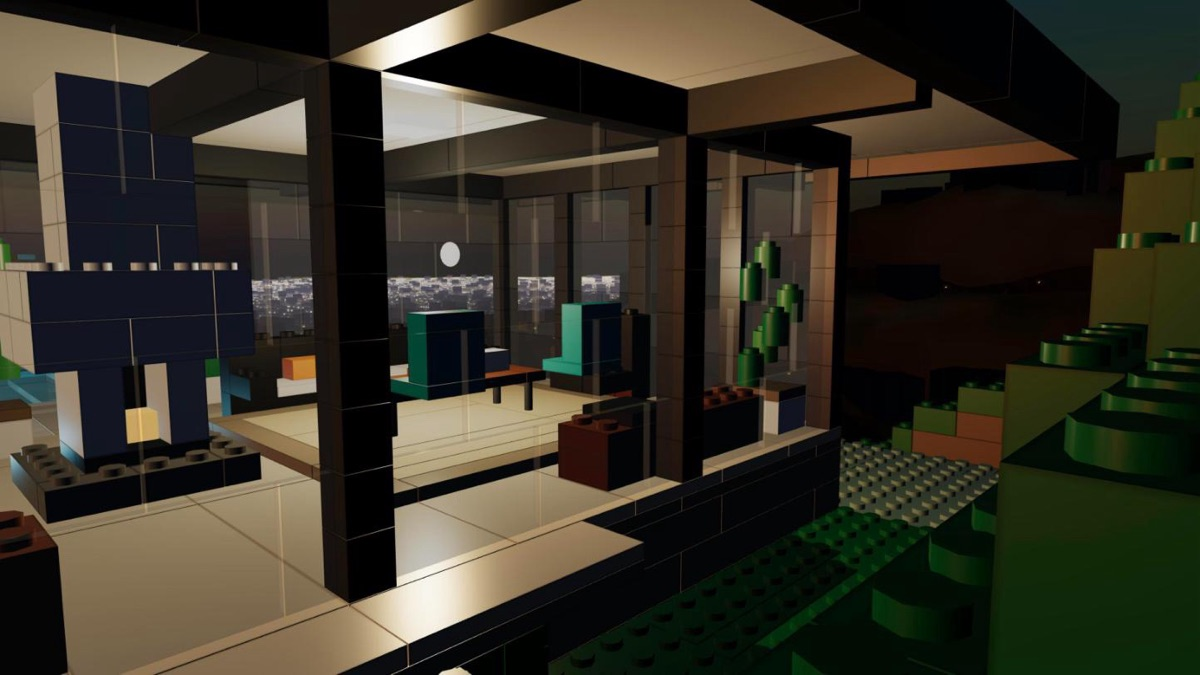
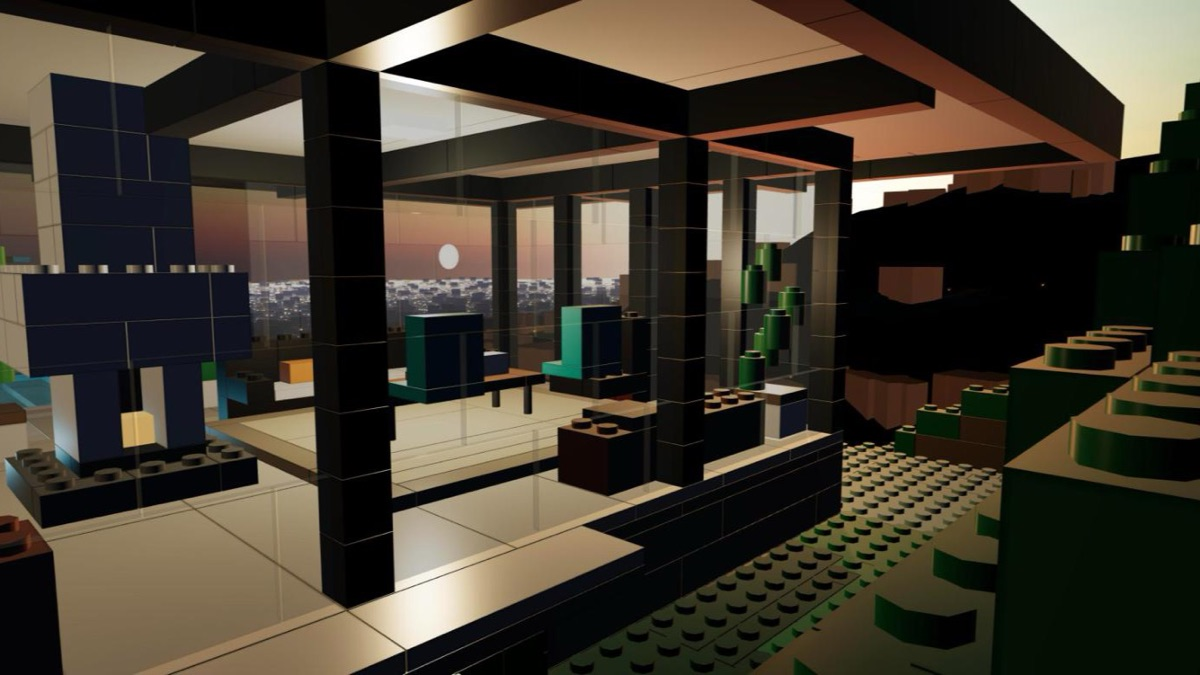
Compass-correct sun for the Stahl House (spec 009)
- NOAA solar position for the house's real lat/lon on the visitor's
  date (?date=YYYY-MM-DD to pin it), mapped through the model's 180°
  orientation; Day = solar noon + 3 h, Dusk = 2.2° above the horizon
- Dusk sun was at ~110° (ESE); now sets at its real bearing, e.g.
  240° on Dec 21 and 297° on Jun 21
- Thumbnail recaptured with the correct winter sunset (pinned date)
- Model, timeline and other presets unchanged

Claude-Session: https://claude.ai/code/session_01K281R8SprXAZ9qdzeZLGd2

diff --git a/src/scene/sun.ts b/src/scene/sun.ts
@@ -1,0 +1,93 @@
+/**
+ * Spec 009: where the sun really is. NOAA solar-position algorithm (accurate to well under a degree for our use),
+ * plus the mapping from real compass bearings into model space. Pure: no Three.js, no DOM.
+ */
+const rad = Math.PI / 180, deg = 180 / Math.PI;
+
+export interface Site {
+  lat: number;
+  lon: number;
+  /** how the model is turned relative to the real world: 180 means model +z = real north, model −x = real east (spec 003) */
+  rotationDeg: number;
+}
+
+/** Equation of time (minutes) and solar declination (degrees) for an instant. */
+function sunParams(date: Date) {
+  const jd = date.getTime() / 86400000 + 2440587.5;
+  const T = (jd - 2451545) / 36525;
+  const L0 = (((280.46646 + T * (36000.76983 + T * 0.0003032)) % 360) + 360) % 360;
+  const M = 357.52911 + T * (35999.05029 - 0.0001537 * T);
+  const e = 0.016708634 - T * (0.000042037 + 0.0000001267 * T);
+  const C =
+    Math.sin(M * rad) * (1.914602 - T * (0.004817 + 0.000014 * T)) +
+    Math.sin(2 * M * rad) * (0.019993 - 0.000101 * T) +
+    Math.sin(3 * M * rad) * 0.000289;
+  const omega = 125.04 - 1934.136 * T;
+  const lambda = L0 + C - 0.00569 - 0.00478 * Math.sin(omega * rad);
+  const eps0 = 23 + (26 + (21.448 - T * (46.815 + T * (0.00059 - T * 0.001813))) / 60) / 60;
+  const eps = eps0 + 0.00256 * Math.cos(omega * rad);
+  const decl = Math.asin(Math.sin(eps * rad) * Math.sin(lambda * rad)) * deg;
+  const y = Math.tan((eps / 2) * rad) ** 2;
+  const eot =
+    4 * deg *
+    (y * Math.sin(2 * L0 * rad) - 2 * e * Math.sin(M * rad) + 4 * e * y * Math.sin(M * rad) * Math.cos(2 * L0 * rad) -
+      0.5 * y * y * Math.sin(4 * L0 * rad) - 1.25 * e * e * Math.sin(2 * M * rad));
+  return { decl, eot };
+}
+
+/** Sun azimuth (degrees clockwise from true north) and geometric elevation (degrees above the horizon). */
+export function solarPosition(date: Date, lat: number, lon: number) {
+  const { decl, eot } = sunParams(date);
+  const minutes = date.getUTCHours() * 60 + date.getUTCMinutes() + date.getUTCSeconds() / 60 + date.getUTCMilliseconds() / 60000;
+  const tst = (((minutes + eot + 4 * lon) % 1440) + 1440) % 1440;
+  let ha = tst / 4 - 180;
+  if (ha < -180) ha += 360;
+  const cz = Math.sin(lat * rad) * Math.sin(decl * rad) + Math.cos(lat * rad) * Math.cos(decl * rad) * Math.cos(ha * rad);
+  const zen = Math.acos(Math.max(-1, Math.min(1, cz))) * deg;
+  const ca = (Math.sin(lat * rad) * Math.cos(zen * rad) - Math.sin(decl * rad)) / (Math.cos(lat * rad) * Math.sin(zen * rad));
+  const a = Math.acos(Math.max(-1, Math.min(1, ca))) * deg;
+  const azimuth = ha > 0 ? (a + 180) % 360 : (540 - a) % 360;
+  return { azimuth, elevation: 90 - zen, declination: decl };
+}
+
+/** Solar noon (UTC instant) on a calendar day `YYYY-MM-DD` at longitude `lon`. */
+export function solarNoon(day: string, lon: number): Date {
+  const [y, m, d] = day.split('-').map(Number);
+  const midnight = Date.UTC(y, m - 1, d);
+  let noon = midnight + (720 - 4 * lon) * 60e3;
+  noon = midnight + (720 - 4 * lon - sunParams(new Date(noon)).eot) * 60e3; // refine with that day's equation of time
+  return new Date(noon);
+}
+
+/** Three.js spherical azimuth θ (degrees, direction (x, z) = (sin θ, cos θ)) for a real compass bearing. */
+export const bearingToTheta = (bearing: number, rotationDeg: number) => (((180 - bearing + rotationDeg) % 360) + 360) % 360;
+
+export const DUSK_ELEVATION = 2.2; // degrees: the dusk look of the original preset
+export const DAY_AFTER_NOON_H = 3; // mid-afternoon
+
+/** The sun for a preset on a day: real bearing/elevation, and the θ to give the sky. */
+export function sunFor(day: string, site: Site, kind: 'day' | 'dusk') {
+  const noon = solarNoon(day, site.lon).getTime();
+  let t = noon + DAY_AFTER_NOON_H * 3600e3;
+  if (kind === 'dusk') {
+    // the afternoon moment the sun is DUSK_ELEVATION above the horizon
+    let a = noon, b = noon + 9 * 3600e3;
+    for (let i = 0; i < 50; i++) {
+      const m = (a + b) / 2;
+      if (solarPosition(new Date(m), site.lat, site.lon).elevation > DUSK_ELEVATION) a = m; else b = m;
+    }
+    t = (a + b) / 2;
+  }
+  const p = solarPosition(new Date(t), site.lat, site.lon);
+  return { bearing: p.azimuth, elevation: p.elevation, theta: bearingToTheta(p.azimuth, site.rotationDeg), time: new Date(t) };
+}
+
+/** `?date=YYYY-MM-DD` if valid, otherwise the visitor's local today. */
+export function dateParam(param: string | null, now = new Date()): string {
+  if (param && /^\d{4}-\d{2}-\d{2}$/.test(param)) {
+    const [y, m, d] = param.split('-').map(Number);
+    const dt = new Date(Date.UTC(y, m - 1, d));
+    if (dt.getUTCFullYear() === y && dt.getUTCMonth() === m - 1 && dt.getUTCDate() === d) return param;
+  }
+  return `${now.getFullYear()}-${String(now.getMonth() + 1).padStart(2, '0')}-${String(now.getDate()).padStart(2, '0')}`;
+}

diff --git a/tests/sun.test.ts b/tests/sun.test.ts
@@ -1,0 +1,79 @@
+// Spec: specs/009-compass-correct-sun.md (A1–A4, A6)
+import { describe, expect, it } from 'vitest';
+import { readFileSync } from 'node:fs';
+import { bearingToTheta, dateParam, solarNoon, solarPosition, sunFor } from '../src/scene/sun';
+import { SITE } from '../src/model/layout';
+import { parseNeighborhood } from '../src/scene/neighborhoodData';
+import { buildStahlHouse } from '../src/model/stahlHouse';
+import { sequence } from '../src/build/sequencer';
+import { houseFingerprint, modelFingerprint } from './fingerprint';
+
+const rad = Math.PI / 180;
+const expectedSunset = (declDeg: number, latDeg: number) => 360 - Math.acos(Math.sin(declDeg * rad) / Math.cos(latDeg * rad)) / rad;
+
+/** time of geometric sunset (elevation 0) after solar noon, by bisection */
+function sunsetAzimuth(day: string) {
+  let a = solarNoon(day, SITE.lon).getTime(), b = a + 9 * 3600e3;
+  for (let i = 0; i < 60; i++) {
+    const m = (a + b) / 2;
+    if (solarPosition(new Date(m), SITE.lat, SITE.lon).elevation > 0) a = m; else b = m;
+  }
+  return solarPosition(new Date(a), SITE.lat, SITE.lon).azimuth;
+}
+
+describe('009: compass-correct sun', () => {
+  it('A1: sunset azimuths match the textbook geometry at the house', () => {
+    expect(Math.abs(sunsetAzimuth('2026-06-21') - expectedSunset(23.44, SITE.lat))).toBeLessThan(1.5); // ≈ 299°
+    expect(Math.abs(sunsetAzimuth('2026-12-21') - expectedSunset(-23.44, SITE.lat))).toBeLessThan(1.5); // ≈ 241°
+    expect(Math.abs(sunsetAzimuth('2026-09-23') - 270)).toBeLessThan(1.5);
+  });
+
+  it('A1: at solar noon the sun is due south, at the right height', () => {
+    const p = solarPosition(solarNoon('2026-06-21', SITE.lon), SITE.lat, SITE.lon);
+    expect(Math.abs(p.azimuth - 180)).toBeLessThan(1);
+    expect(Math.abs(p.elevation - (90 - SITE.lat + 23.44))).toBeLessThan(0.5);
+  });
+
+  it('A2: compass mapping matches the 180° orientation of the real-world data', () => {
+    const f = readFileSync('public/stahl-house/neighborhood.bin');
+    const n = parseNeighborhood(f.buffer.slice(f.byteOffset, f.byteOffset + f.byteLength));
+    expect(SITE.rotationDeg).toBe(n.anchor.rotationDeg);
+    expect(SITE.lat).toBeCloseTo(n.anchor.lat, 6);
+    expect(SITE.lon).toBeCloseTo(n.anchor.lon, 6);
+    const dir = (bearing: number) => {
+      const t = bearingToTheta(bearing, SITE.rotationDeg) * rad;
+      return [Math.round(Math.sin(t) * 1e6) / 1e6 + 0, Math.round(Math.cos(t) * 1e6) / 1e6 + 0]; // (x, z) as three.js spherical; +0 normalizes −0
+    };
+    expect(dir(270)).toEqual([1, 0]); // real west → model +x
+    expect(dir(0)).toEqual([0, 1]); // real north → model +z
+    expect(dir(90)).toEqual([-1, 0]); // real east → model −x
+  });
+
+  it('A3: dusk sets in the real west at 2.2°, day is mid-afternoon in the south-west, all year', () => {
+    for (let m = 1; m <= 12; m++) {
+      const day = `2026-${String(m).padStart(2, '0')}-15`;
+      const dusk = sunFor(day, SITE, 'dusk'), d = sunFor(day, SITE, 'day');
+      expect(dusk.bearing).toBeGreaterThanOrEqual(230);
+      expect(dusk.bearing).toBeLessThanOrEqual(310);
+      expect(dusk.elevation).toBeCloseTo(2.2, 1);
+      expect(d.bearing).toBeGreaterThanOrEqual(180);
+      expect(d.bearing).toBeLessThanOrEqual(280);
+      expect(d.elevation).toBeGreaterThan(15); // mid-December at 3 pm the sun is ~18° up (amended, see spec)
+    }
+  });
+
+  it('A4: ?date= pins the day, anything invalid falls back to today', () => {
+    const now = new Date(2026, 10, 8, 14, 0);
+    expect(dateParam('2026-06-21', now)).toBe('2026-06-21');
+    expect(dateParam(null, now)).toBe('2026-11-08');
+    expect(dateParam('2026-13-40', now)).toBe('2026-11-08');
+    expect(dateParam('yesterday', now)).toBe('2026-11-08');
+  });
+
+  it('A6: the model and the timeline are unchanged', () => {
+    const bricks = buildStahlHouse().builder.bricks;
+    expect(modelFingerprint(bricks)).toEqual({ count: 27222, hash: 'ebe0f28f' });
+    expect(houseFingerprint(bricks)).toEqual({ count: 3603, hash: 'e781fb43' });
+    expect(sequence(bricks).total).toBeCloseTo(228.7, 5);
+  });
+});

diff --git a/src/main.ts b/src/main.ts
@@ -13,7 +13,8 @@ import { Walker } from './controls/walk';
 import { attachTouch } from './controls/touch';
 import { CamAction, mountHud } from './ui/Hud';
 import { Glide, MAX_DIST, MIN_DIST, rotated, View, VIEWS, zoomed } from './controls/cameraMoves';
-import { CENTER } from './model/layout';
+import { CENTER, SITE } from './model/layout';
+import { dateParam, sunFor } from './scene/sun';
 
 const app = document.getElementById('app')!;
 const loading = document.getElementById('loading')!;
@@ -59,7 +60,11 @@ const scene = new THREE.Scene();
 const camera = new THREE.PerspectiveCamera(50, innerWidth / innerHeight, 0.3, 25000);
 camera.position.set(-95, 70, -120);
 
-const env = new Environment(renderer, scene);
+// the real sun for this house on the visitor's today, or ?date=YYYY-MM-DD (spec 009)
+const SUN_DAY = dateParam(params.get('date'));
+const sun = { day: sunFor(SUN_DAY, SITE, 'day'), dusk: sunFor(SUN_DAY, SITE, 'dusk') };
+const env = new Environment(renderer, scene, sun);
+if (DEBUG) console.log(`[stahl] sun on ${SUN_DAY}: day ${sun.day.bearing.toFixed(0)}° / ${sun.day.elevation.toFixed(0)}°, dusk ${sun.dusk.bearing.toFixed(0)}° / ${sun.dusk.elevation.toFixed(1)}°`);
 let city: City | null = null;
 let hood: NeighborhoodScene | null = null;
 {
@@ -246,7 +251,7 @@ if (DEBUG && !CLEAN) {
   fpsEl = document.createElement('div');
   fpsEl.className = 'fps';
   app.appendChild(fpsEl);
-  (window as any).__stahl = { seek: (v: number) => (t = v), schedule, camera, orbit, walker, setMode, env, hood: () => hood };
+  (window as any).__stahl = { seek: (v: number) => (t = v), schedule, camera, orbit, walker, setMode, env, hood: () => hood, sun };
 }
 
 // ---------- loop ----------

diff --git a/src/scene/environment.ts b/src/scene/environment.ts
@@ -28,8 +28,10 @@ export class Environment {
   hemi = new THREE.HemisphereLight(0xffffff, 0x444444, 1);
   interiorLights: THREE.PointLight[] = [];
   poolLight = new THREE.PointLight(0x7fe3ff, 0, 30, 1.5);
-  current: Preset = { ...PRESETS.day };
-  private target: Preset = PRESETS.day;
+  /** the presets with the real sun positions for this house and day (spec 009) */
+  private presets: Record<'day' | 'dusk', Preset>;
+  current: Preset;
+  private target: Preset;
   private pmrem: THREE.PMREMGenerator;
   private envRT: THREE.WebGLRenderTarget | null = null;
   private skyScene = new THREE.Scene();
@@ -37,7 +39,17 @@ export class Environment {
   private envTimer = 0;
   nightFactor = 0;
 
-  constructor(private renderer: THREE.WebGLRenderer, private scene: THREE.Scene) {
+  constructor(
+    private renderer: THREE.WebGLRenderer,
+    private scene: THREE.Scene,
+    sun?: Record<'day' | 'dusk', { theta: number; elevation: number }>,
+  ) {
+    this.presets = {
+      day: { ...PRESETS.day, ...(sun && { azimuth: sun.day.theta, elevation: sun.day.elevation }) },
+      dusk: { ...PRESETS.dusk, ...(sun && { azimuth: sun.dusk.theta, elevation: sun.dusk.elevation }) },
+    };
+    this.current = { ...this.presets.day };
+    this.target = this.presets.day;
     this.sky.scale.setScalar(10000);
     scene.add(this.sky);
     this.skyScene.add(new Sky());
@@ -69,7 +81,7 @@ export class Environment {
   }
 
   set(name: 'day' | 'dusk') {
-    this.target = PRESETS[name];
+    this.target = this.presets[name];
   }
 
   private apply(p: Preset) {

diff --git a/src/model/layout.ts b/src/model/layout.ts
@@ -64,3 +64,9 @@ export function sdRoundRect(x: number, z: number, r: Rect, radius: number) {
 
 /** House centre used by cameras. */
 export const CENTER = { x: 32, y: 6, z: 12 };
+
+/**
+ * Where the house is in the real world (spec 009): OSM centroid of "Case Study House No. 22", and the model's
+ * orientation: it is the real house turned 180°, so model +z = real north and model −x = real east (spec 003).
+ */
+export const SITE = { lat: 34.1004395, lon: -118.3702198, rotationDeg: 180 };

diff --git a/specs/009-compass-correct-sun.md b/specs/009-compass-correct-sun.md
@@ -1,0 +1,67 @@
+# 009 — Compass-correct sun
+
+- **Status:** Done (approved by Erik 2026-11-08: "make sure the stahl house is positioned the right way compass wise, for sunrise and
+  sunset in the accurate place"; sun follows the visitor's today; keep Day / Dusk, no Dawn)
+- **Owner:** Erik
+- **Created:** 2026-11-08
+- **Commits:** <!-- filled in when Done -->
+
+## Goal
+The sun should rise and set where it really does at the Stahl House, on the day you're looking at it.
+
+## Research (2026-11-08, at 09d1548)
+- **The house and its surroundings are already consistent with each other.** The brick house is the real house rotated 180°,
+  and spec 003 rotated the real-world data to match: model **+z = real north**, model **−x = real east**, and model +x = real west.
+  Only the sky ignores this.
+- The sky is set by fixed presets in `src/scene/environment.ts`, as three.js spherical angles: `azimuth` θ, with direction
+  (x, z) = (sin θ, cos θ). Translated into real compass bearings:
+  - **Day:** θ = 215° → bearing ≈ **145° (SSE)**, elevation 38°. Plausible for late morning.
+  - **Dusk:** θ = 250° → bearing ≈ **110° (ESE)**, elevation 2.2°. **The sun sets in the east-southeast**, nearly opposite to reality.
+    At 34.1° N the sunset bearing runs from ≈ 241° (December solstice) through 270° (equinoxes) to ≈ 299° (June solstice).
+
+## Behavior
+- The sun's direction comes from a solar-position calculation for the house's latitude/longitude on the **visitor's
+  current date**, mapped into model space through the house's compass orientation.
+  - **Dusk:** the sun 2.2° above the western horizon just before sunset (the same elevation the dusk preset uses today, so the look is
+    unchanged), at its real bearing for that date.
+  - **Day:** the sun 3 hours after solar noon (mid-afternoon), at its real bearing and elevation for that date.
+- `?date=YYYY-MM-DD` pins the date (for screenshots and tests).
+- Everything else in the presets (colors, fog, exposure, lights) stays the same. Day and Dusk remain the only options.
+
+## Acceptance criteria
+- **A1** [unit] `solarPosition()` agrees with the textbook geometry: at 34.1° N the azimuth at geometric sunset matches
+  360° − arccos(sin δ / cos φ) within 1.5° on the solstices and an equinox (≈ 299°, ≈ 241°, ≈ 270°). Solar noon is due south.
+- **A2** [unit] Compass mapping: with the Stahl House's 180° orientation, real west → model +x, real north → model +z, real east → model −x.
+  It agrees with the rotation that spec 003's data script applied.
+- **A3** [unit] For any date, the computed Dusk sun points to the real west half (bearing 230°–310°) at 2.2° elevation, and the Day sun is
+  south-west of the zenith (bearing 180°–280°) and above 15°. *(Amended from 20°: in mid-December the 3 pm sun really is only
+  ≈ 18° up at 34° N. The low winter sun is the accurate result, so the criterion was wrong, not the sun.)*
+- **A4** [unit] `?date=` overrides today. An invalid value falls back to today.
+- **A5** [manual] In Chrome, from the famous view at dusk, the glow and the low sun sit over the city to the real west, behind the
+  living-room corner, not over the hills behind. Day shadows fall to the north-east. Checked at `?date=2026-06-21` and `?date=2026-12-21`.
+- **A6** [unit] The model, the build sequence and the other presets are unchanged (fingerprints `ebe0f28f` / `e781fb43`, total 228.7 s).
+
+## Out of scope
+A Dawn option, a time-of-day slider, the moon and stars.
+
+## Implementation notes
+- `src/scene/sun.ts` (pure, tested):
+  - `solarPosition()` is the NOAA algorithm (equation of time and declination, then hour angle → azimuth and elevation).
+  - `solarNoon()`; `sunFor(day, site, 'day' | 'dusk')`: Day = solar noon + 3 h, Dusk = bisection for the afternoon moment at 2.2° elevation.
+  - `bearingToTheta(bearing, rotationDeg) = 180 − bearing + rotation`, i.e. a compass bearing → three.js spherical θ.
+  - `dateParam()` handles `?date=`.
+- `SITE` in `src/model/layout.ts`: the same lat/lon as the data script's anchor and `rotationDeg: 180` (the A2 test checks it against `neighborhood.bin`).
+  When spec 010 makes the engine multi-house, this moves into the house definition.
+- `Environment` takes the computed `{ theta, elevation }` for Day and Dusk and keeps every other preset value. `main.ts` computes them for
+  the visitor's local date (or `?date=`) and logs them under `?debug`. The sky and the shadow-casting light both follow, because both come from the preset.
+- **Before → after**, for example on 2026-12-21: Dusk 110° (ESE, wrong) → **240° (WSW)**; Day 145° (SSE, fixed) → **223° / 18°** (mid-afternoon).
+  On 2026-06-21: Dusk **297°**, Day **267° / 49°**.
+- The home-page thumbnail is recaptured with the correct sun at `?view=famous&light=dusk&clean&date=2026-12-21`, so it's
+  reproducible. The winter sunset glows behind the living room.
+- **Results:**
+  - A1–A4, A6: `tests/sun.test.ts` (6 tests). A3 is amended (Day > 15°, not 20°; see the criterion). 77 tests total.
+  - A5 pass in Chrome:
+    - From the famous view (facing ≈ 225°), the 2026-12-21 sunset glow is straight ahead behind the living-room corner,
+      and on 2026-06-21 it's off to the right (297°), as it should be.
+    - The directional light's real bearing reads 223° by day (shadows fall toward 43°, north-east) and 240° at dusk,
+      matching the calculation.
